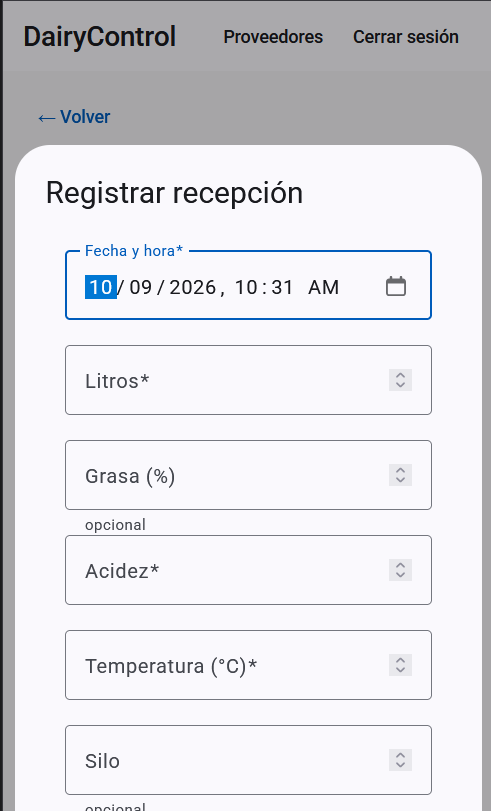
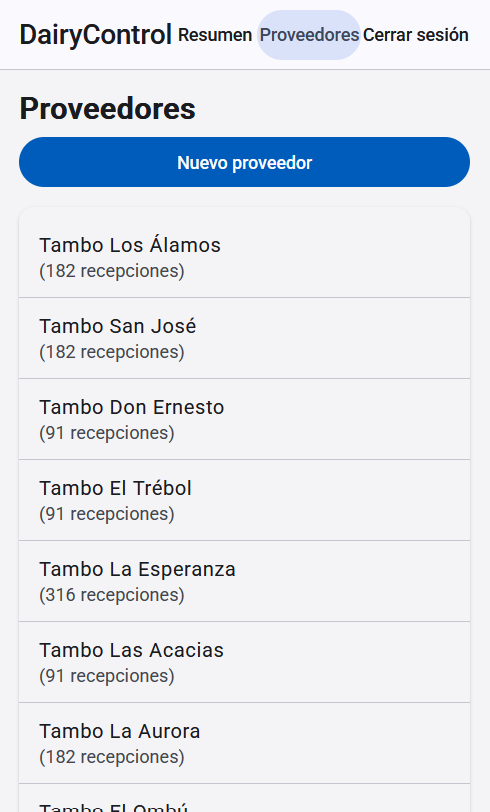
Update README.md

diff --git a/README.md b/README.md
@@ -2,7 +2,7 @@
 
 Milk reception and quality-control system for a small dairy plant: a **.NET 10** REST API built with **Clean Architecture** and **Domain-Driven Design**, an **Angular** client, and a containerized stack with **Docker Compose**.
 
-> **Status:** backend complete (REST API, JWT authentication, error handling, unit tests). Angular client complete for the reception module: login, protected pages, proveedores, recepción registration, Angular Material UI. Full stack runs with Docker Compose; CI builds and tests both backend and client. Demo data is seeded on startup. **Live on Azure Container Apps**, deployed automatically on every merge to `main`.
+> **Status:** backend complete (REST API, JWT authentication, error handling, unit tests). Angular client complete for the reception module: login, protected pages, proveedores, recepción registration, reception dashboard with configurable quality limits, Angular Material UI. Full stack runs with Docker Compose; CI builds and tests both backend and client. Demo data is seeded on startup. **Live on Azure Container Apps**, deployed automatically on every merge to `main`.
 
 ## Live demo
 
@@ -16,9 +16,17 @@ The demo scales to zero when nobody is using it and its database pauses, so the 
 
 DairyControl registers milk suppliers (_proveedores_) and every delivery received at the plant (_recepción_): volume in liters, temperature, acidity, optional fat content, destination silo, timestamp and free-text notes.
 
+On top of the records, a **Resumen** dashboard answers the plant's key question for any period: how much milk came in, compared with the previous period, from which suppliers, and how many deliveries were out of range. Quality limits (acidity and temperature) are configurable per plant.
+
 The domain model is based on real reception logs from a dairy plant. All data in this repository is synthetic.
 
 ## Screenshots
+
+**Resumen**: liters, quality, liters per day and supplier ranking for any period, compared with the previous period.
+
+![Resumen dashboard](docs/screenshots/resumen.png)
+
+![Resumen: supplier ranking with participation and out-of-range deliveries](docs/screenshots/resumen-2.png)
 
 | Proveedores                                           | Recepciones                                       |
 | ----------------------------------------------------- | ------------------------------------------------- |
